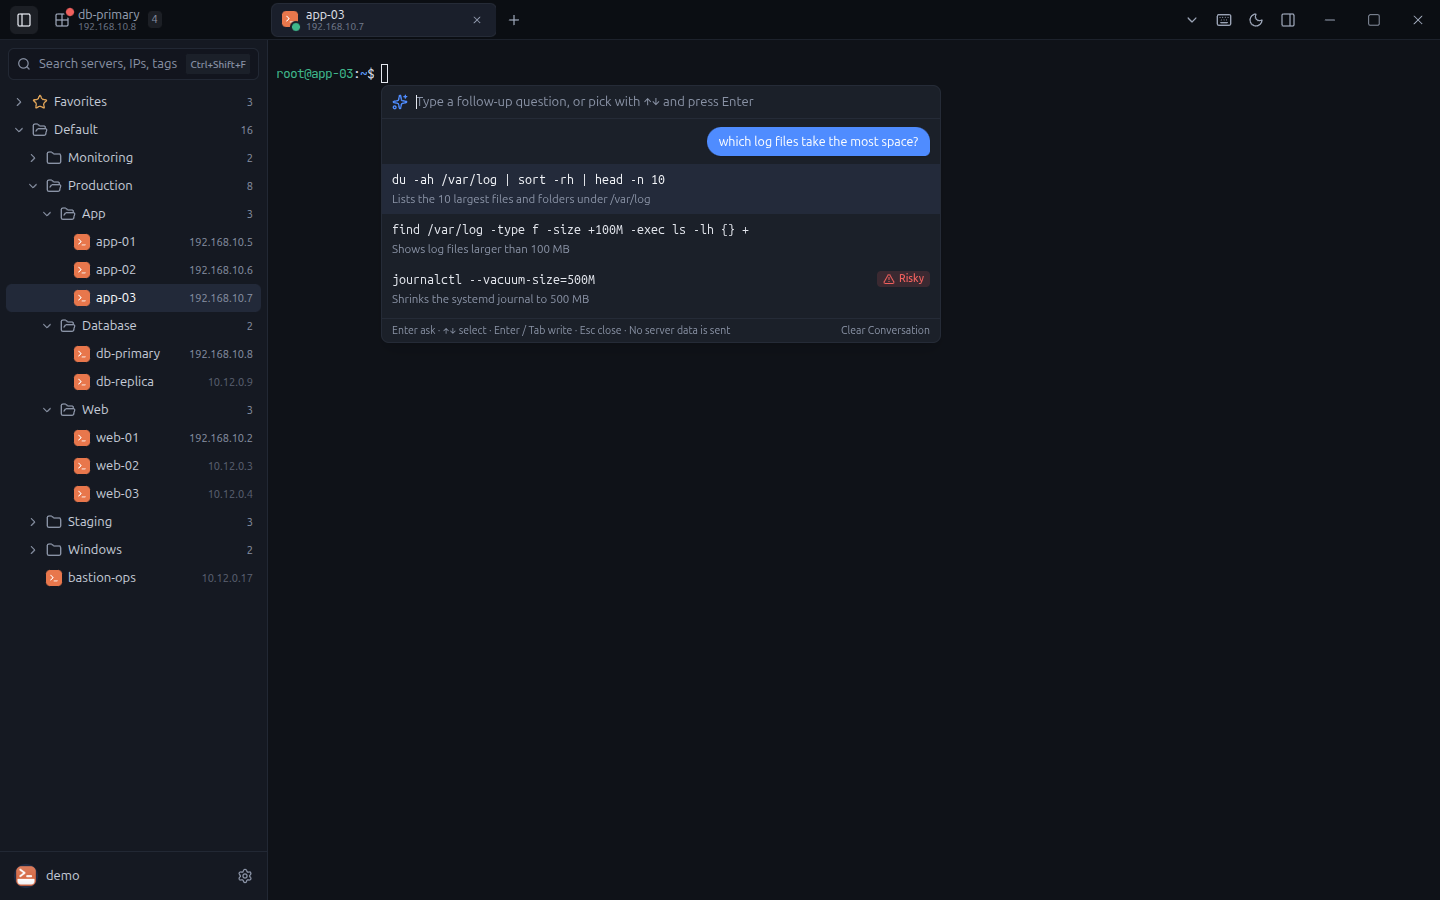
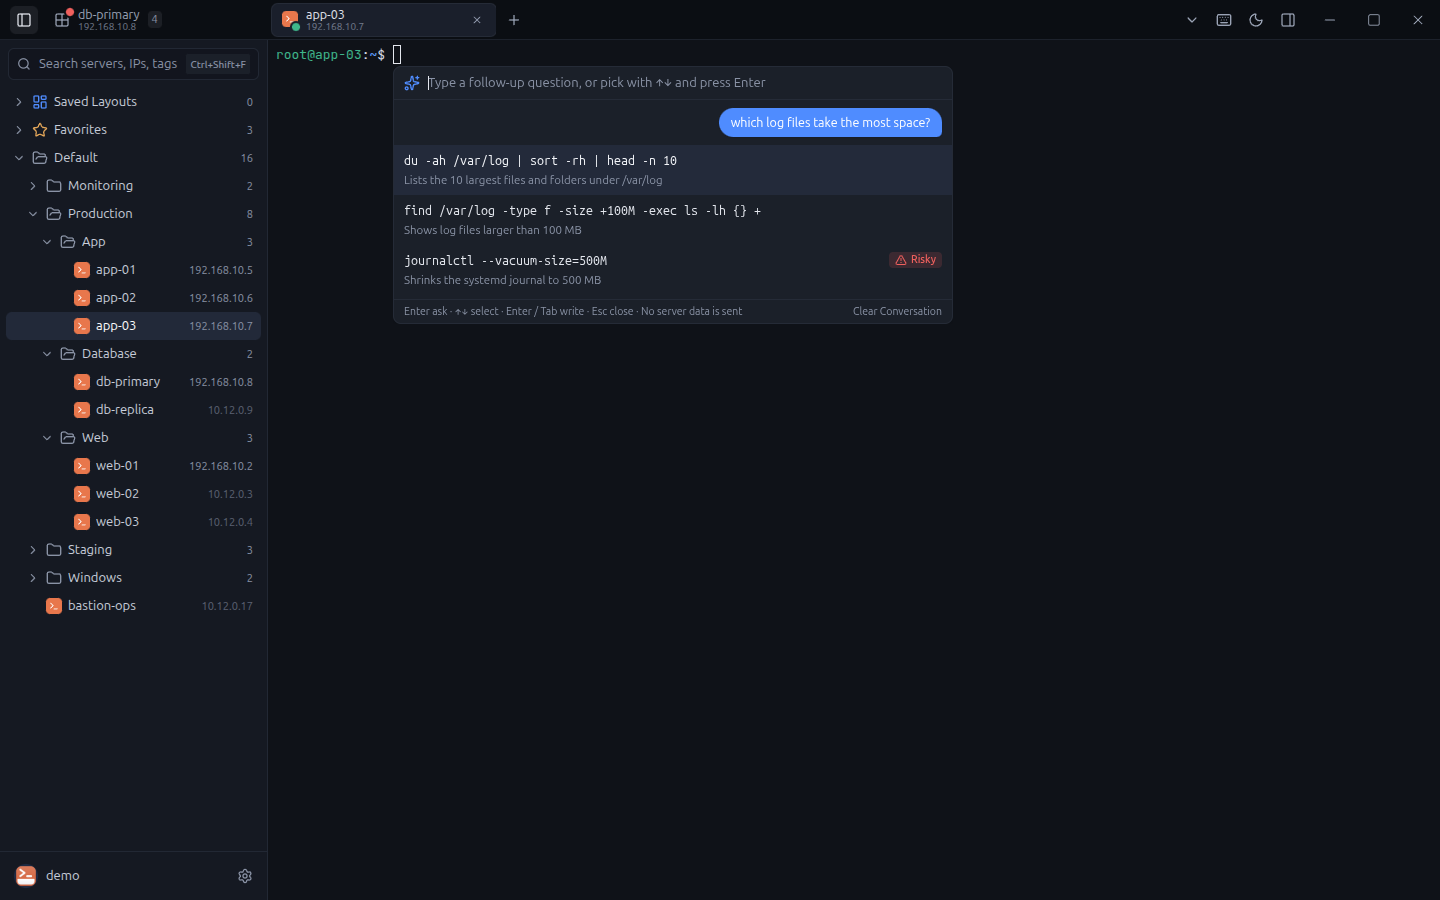
Highlight the AI assistant in the README with new screenshots

diff --git a/README.md b/README.md
@@ -5,7 +5,8 @@
 <h1 align="center">JumpDesk</h1>
 
 <p align="center">
-  A cross-platform desktop client for <a href="https://github.com/jumpserver/jumpserver">JumpServer</a>.
+  An <strong>AI-powered</strong>, cross-platform desktop client for
+  <a href="https://github.com/jumpserver/jumpserver">JumpServer</a>.
 </p>
 
 <p align="center">
@@ -13,13 +14,55 @@
   <a href="LICENSE"><img src="https://img.shields.io/badge/license-MIT-blue.svg" alt="License: MIT"></a>
 </p>
 
-JumpDesk turns your JumpServer assets into a desktop workspace: browse the server tree, open SSH, SFTP and RDP
-sessions in tabs and split views, run snippets, follow logs with highlights and alarms, and ask an AI for a command
-when you need one. It works with JumpServer v4 (Community edition) on Linux, Windows and macOS.
+JumpDesk turns your JumpServer assets into an AI-assisted desktop workspace: browse the server tree, open SSH, SFTP
+and RDP sessions in tabs and split views, run snippets and follow logs with highlights and alarms. Its built-in
+**AI assistant** turns plain language into shell commands, explains errors you select in the terminal and the alarms it
+catches, and writes snippets and alarm rules for you, with the provider of your choice, including local models.
+It works with JumpServer v4 (Community edition) on Linux, Windows and macOS.
 
 > JumpDesk is an independent project and is not affiliated with the JumpServer team.
 
 ![Four SSH sessions in a grid with log highlights and the snippets panel](docs/screenshots/split-view.png)
+
+## AI assistant
+
+JumpDesk brings AI into the terminal workflow without taking control away from you: every suggestion is written to
+the command line or into a form, and nothing runs until you press Enter or save.
+
+![An exception selected in the terminal, explained by the AI with commands to investigate](docs/screenshots/ai-explain.png)
+
+- **Explain what you select.** Select an error, a stack trace or a log excerpt in any terminal and press **Explain**.
+  The AI tells you what it means and what to check, and suggests commands to investigate that you can write to the
+  command line with one click.
+- **Explain alarms.** Ask the AI about any alarm in the Alarms panel; the alarm line is sent with the lines printed just
+  before it, so the answer has context.
+- **Commands from plain language.** Press Ctrl+Space twice in the terminal, describe what you need ("which log files
+  take the most space?") and pick one of the suggested commands. Follow-up questions keep the conversation's context.
+- **AI-written snippets.** Describe a snippet in the snippet editor and get a name and a command; have any command
+  explained before you save it.
+- **AI-written alarm and highlight rules.** Describe what to catch, optionally paste a sample line, and get words or
+  regular expressions that are tested against your sample on the spot.
+- **Your provider, your models.** Anthropic (Claude), OpenAI, Google Gemini, Azure OpenAI or any OpenAI-compatible
+  server such as Ollama, LM Studio or vLLM for fully local models. The model list is loaded from the provider with
+  your key.
+- **Safety built in.** Suggested commands are checked by local rules and flagged as *Caution* or *Dangerous*;
+  dangerous commands need an extra confirmation before they are even written to the prompt. Prompts treat terminal
+  text as untrusted data, so instructions hidden in output are not followed.
+
+| | |
+| --- | --- |
+| ![Selecting an error in the terminal shows the Explain button](docs/screenshots/ai-explain-selection.png) | ![The alarm line and the lines before it shown before sending](docs/screenshots/ai-alarm.png) |
+| **Explain** appears next to any text you select in the terminal. | **Ask AI about an alarm**: you see exactly what will be sent and confirm it. |
+| ![AI suggestions in the terminal](docs/screenshots/ai-assist.png) | ![AI-written snippet in the snippet editor](docs/screenshots/ai-snippet.png) |
+| **Ask AI** with Ctrl+Space twice; pick a command, it is written to the prompt and runs only on Enter. | **Snippets from a description**: the AI suggests a name and a command, you decide what to save. |
+| ![AI-suggested alarm rules tested against a sample line](docs/screenshots/ai-rule.png) | ![AI settings with feature switches and the provider](docs/screenshots/settings-ai.png) |
+| **Rules from a description**, each tested against your sample line. | **AI settings**: turn each AI feature on or off and pick the provider and model. |
+
+**Privacy.** AI features are optional and each one has its own switch in **Settings → AI**. JumpDesk never sends server
+data on its own: for commands, snippets and rules only what you type and the server type (for example Linux) are sent.
+Terminal text is sent only when you ask for an explanation, and only after JumpDesk has shown you the exact text and
+you have pressed **Send**. API keys are encrypted with the operating system keyring, never shown again and never
+included in exports.
 
 ## Features
 
@@ -30,12 +73,13 @@ when you need one. It works with JumpServer v4 (Community edition) on Linux, Win
   can be dragged into separate windows and back, terminal search, keyword highlights and alarm rules with desktop
   notifications.
 - **Shell integration**: command and file autocomplete, command history, colored command line, local IP detection.
-- **Snippets** that run on demand or automatically on connect, saved layouts and a command palette.
+- **Snippets** that run on demand or automatically on connect, saved layouts grouped into folders (also in the left
+  tree and the system tray) and a command palette.
 - **File manager (SFTP)** with upload and download.
 - **RDP** sessions through JumpServer's Guacamole gateway.
-- **AI autocomplete (optional)**: ask a question in the terminal and pick a suggested command. Supports Anthropic,
-  OpenAI, Google Gemini, Azure OpenAI and OpenAI-compatible servers (Ollama, LM Studio, vLLM). Only the question and the
-  server type are sent; commands are written to the prompt and never run without your Enter.
+- **AI assistant (optional)**: commands from plain language, explanations of selected output and alarms, AI-written
+  snippets and alarm/highlight rules; works with Anthropic, OpenAI, Google Gemini, Azure OpenAI and local
+  OpenAI-compatible servers. See [AI assistant](#ai-assistant).
 - **Server status strip (optional)**: CPU, memory, disk and load of Linux servers in a strip below the header, with
   a details card; measured by a small background loop in the session, nothing is installed on the server.
 - **Encrypted export/import** of snippets, rules, highlights, layouts and settings (`.jumpdesk` files).
@@ -49,14 +93,12 @@ when you need one. It works with JumpServer v4 (Community edition) on Linux, Win
 | --- | --- |
 | ![Server address screen](docs/screenshots/sign-in.png) | ![Server tree with a hover card and the home view](docs/screenshots/servers.png) |
 | **Sign in** to any JumpServer: enter its address, then use its own login page (LDAP, MFA and SSO work as usual). | **Server tree** with folders, favorites, recent connections and hover cards. |
-| ![Command autocomplete in the terminal](docs/screenshots/autocomplete.png) | ![AI suggestions in the terminal](docs/screenshots/ai-assist.png) |
-| **Autocomplete** from history, snippets and remote files. | **Ask AI** with Ctrl+Space twice; pick a command, it is written to the prompt and runs only on Enter. |
-| ![Alarms panel listing caught exceptions](docs/screenshots/alarms.png) | ![File manager panel](docs/screenshots/files.png) |
-| **Alarm rules** catch words or regular expressions in any session and notify you. | **File manager (SFTP)** for the active session: browse, upload, download. |
+| ![Command autocomplete in the terminal](docs/screenshots/autocomplete.png) | ![Alarms panel listing caught exceptions](docs/screenshots/alarms.png) |
+| **Autocomplete** from history, snippets and remote files, previewed inline as you move through the list. | **Alarm rules** catch words or regular expressions in any session and notify you. |
+| ![File manager panel](docs/screenshots/files.png) | ![Highlights panel with colored log levels](docs/screenshots/highlights.png) |
+| **File manager (SFTP)** for the active session: browse, upload, download. | **Highlights** color words or regular expressions in terminal output, such as log levels. |
 | ![Command palette](docs/screenshots/command-palette.png) | ![Export dialog](docs/screenshots/export.png) |
 | **Command palette** (Ctrl+Shift+P) for every action, tab, layout and snippet. | **Encrypted export/import** of snippets, rules, highlights, layouts and settings. |
-| ![AI provider settings](docs/screenshots/settings-ai.png) | ![Highlights panel with colored log levels](docs/screenshots/highlights.png) |
-| **AI providers**: Anthropic, OpenAI, Gemini, Azure OpenAI or a local OpenAI-compatible server. | **Highlights** color words or regular expressions in terminal output, such as log levels. |
 
 Screenshots are generated against the bundled mock server with `npm run build && npm run screenshots`.
 
